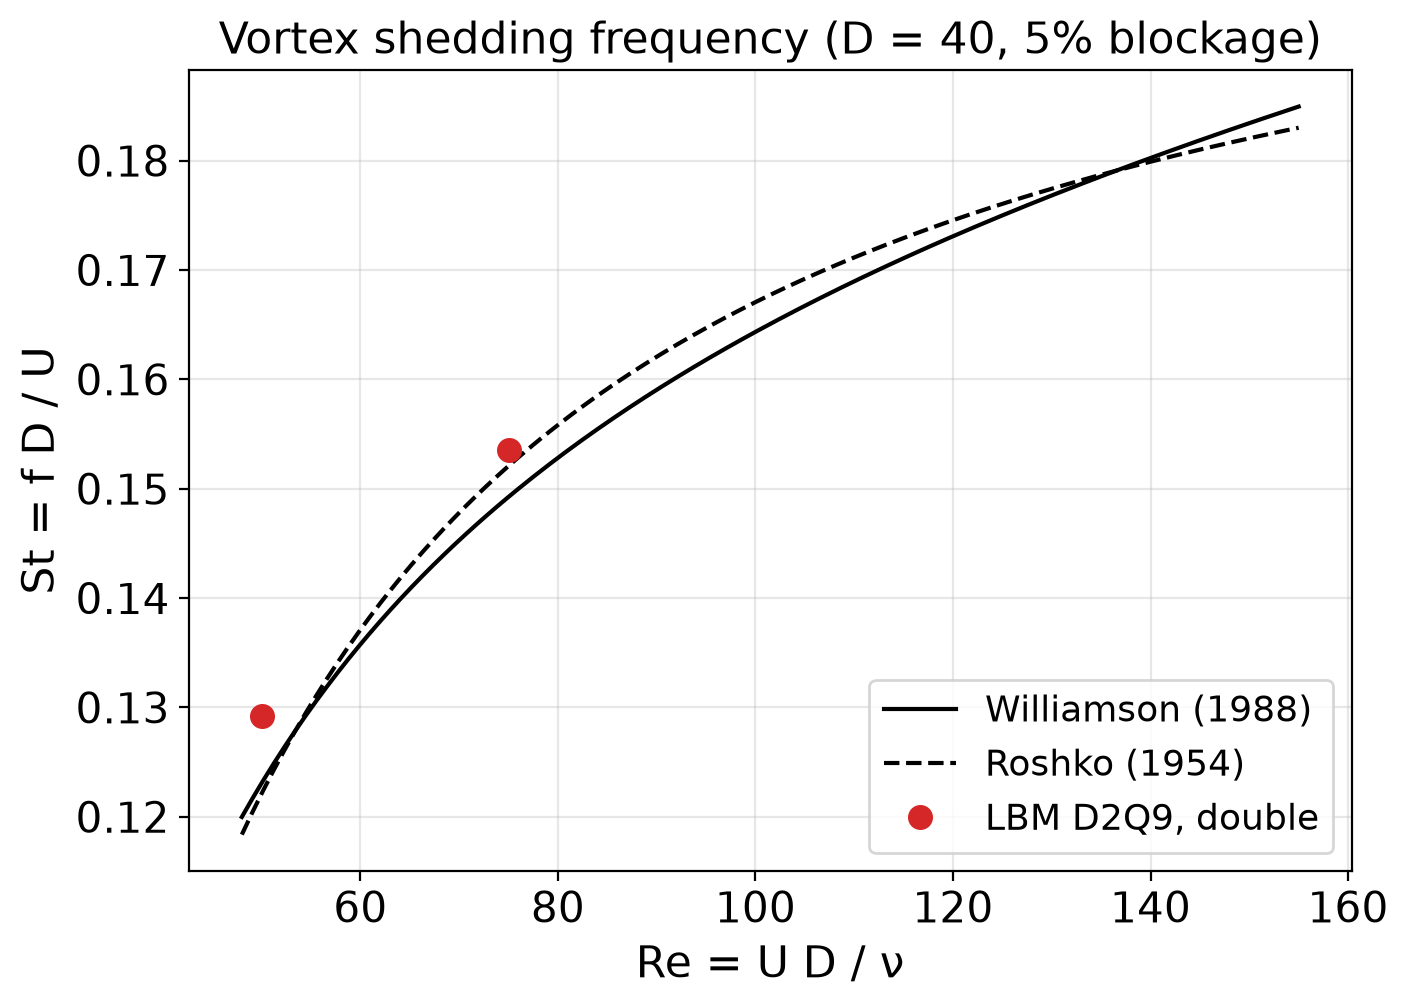
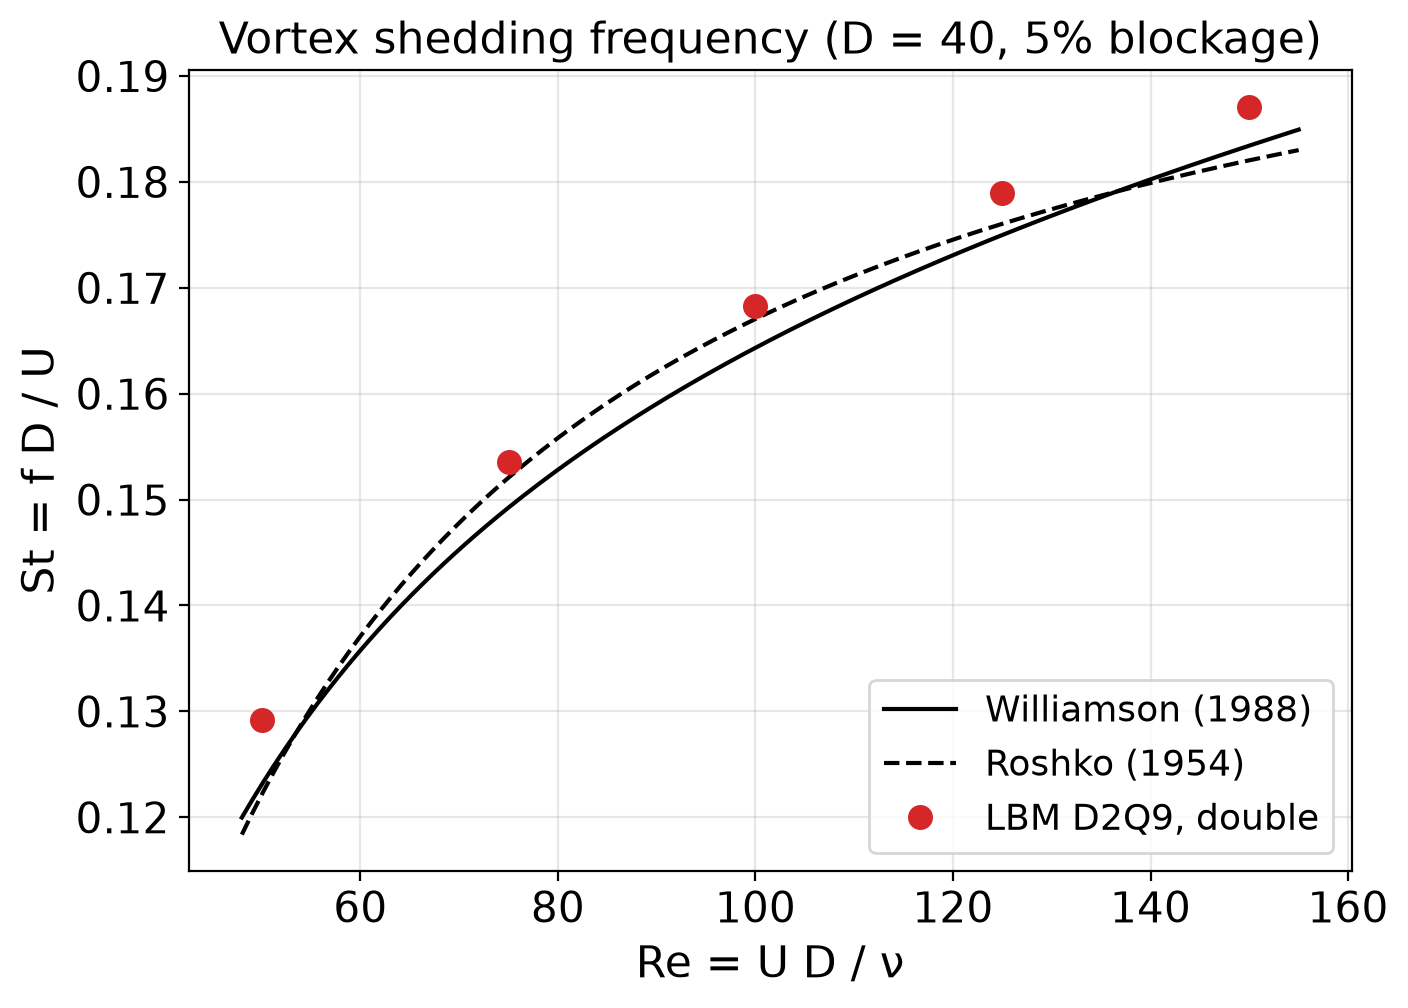
Updated documentation

diff --git a/README.md b/README.md
@@ -60,8 +60,10 @@ D = 40 cells in a 1600 × 800 domain (5% blockage), U = 0.1. St comes from the l
 | 50 | 0.1292 | 0.1231 | +5.0% |
 | 75 | 0.1535 | 0.1492 | +2.9% |
 | 100 | 0.1683 | 0.1643 | +2.4% |
-| 125 | *pending* | 0.1750 | |
-| 150 | *pending* | 0.1838 | |
+| 125 | 0.1790 | 0.1750 | +2.3% |
+| 150 | 0.1871 | 0.1834 | +2.0% |
+
+Every point is a few percent high, by a similar amount. That fits the remaining 5% blockage and Ma = 0.17, both of which push St up.
 
 My earlier 400 × 100 domain (22% blockage) gave St = 0.20 at Re = 100, 23% high. Confinement matters.
 
@@ -73,11 +75,17 @@ C_D is the mean over 3 sub-cell positions of the cylinder centre. The reference 
 | 10 | 6.459 ± 0.068 | +15.8% |
 | 20 | 5.836 ± 0.036 | +4.6% |
 | 40 | 5.655 ± 0.009 | +1.35% |
-| 80 | *pending* | |
+| 80 | 5.612 ± 0.003 | +0.59% |
 
-- The observed order is ≈ 1.8, between the first order of a staircase and the scheme's second order.
+- The observed order is ≈ 1.8 from N = 10 to 40, better than the first order expected for a staircase. From 40 to 80 it
+  flattens to ≈ 1.2.
+- Richardson extrapolation of the last three N gives order ≈ 2.1 and C_D → 5.599, which is still 0.36% above the reference.
+  So a small error remains that grid refinement does not remove. The inlet/outlet treatment or the finite domain are the
+  first suspects (not yet tested).
+- For 1% drag accuracy with staircase bounce-back, you need ~50 cells per diameter.
 - The tiny lift is dominated by the staircase: shifting the centre by 0.2 cells makes the rasterised cylinder
-  lopsided and changes C_L by up to ~20×, while C_D moves only 1–2%.
+  lopsided and changes C_L by up to ~20× at N = 10, while C_D moves only 1–2%. By N = 80 every placement gives
+  1.0–1.8× the reference lift.
 
 ![C_D convergence](figures/fig6_schafer_turek_convergence.png)
 
@@ -127,7 +135,7 @@ The same command pattern builds `check_cylinder` and `check_schafer_turek`.
 ```
 .\sweep_poiseuille_tau.exe            # ~25 s
 .\run_schafer_turek.exe 10 20 40      # ~6 min
-.\run_schafer_turek.exe 80            # ~70 min (3 centre offsets)
+.\run_schafer_turek.exe 80            # 0.93 M steps per offset: ~15 min each at full speed, much longer if the laptop throttles
 .\run_strouhal.exe                    # ~30 min, double, Re 50-150
 python scripts/make_figures.py        # needs numpy + matplotlib
 ```

diff --git a/figures/tables.md b/figures/tables.md
@@ -20,6 +20,9 @@
 |---|---|---|---|---|---|---|
 | 50 | double | 0.1292 | 0.1292 | 0.1231 | +5.0% | 1.521 |
 | 75 | double | 0.1535 | 0.1535 | 0.1492 | +2.9% | 1.441 |
+| 100 | double | 0.1683 | 0.1683 | 0.1643 | +2.4% | 1.408 |
+| 125 | double | 0.1790 | 0.1790 | 0.1750 | +2.3% | 1.397 |
+| 150 | double | 0.1871 | 0.1871 | 0.1834 | +2.0% | 1.395 |
 
 ## Schäfer–Turek 2D-1 (Re = 20), τ = 0.65
 
@@ -30,6 +33,7 @@ Reference: C_D = 5.57954, C_L = 0.01062
 | 10 | 3 | 6.4590 ± 0.0677 | +15.76% | 0.01495 | +40.8% |  |
 | 20 | 3 | 5.8364 ± 0.0360 | +4.60% | 0.01123 | +5.8% | 1.78 |
 | 40 | 3 | 5.6547 ± 0.0086 | +1.35% | 0.01060 | -0.1% | 1.77 |
+| 80 | 3 | 5.6123 ± 0.0027 | +0.59% | 0.01094 | +3.0% | 1.20 |
 
 Per offset (ox, oy in cells): C_L reacts to the staircase's top/bottom asymmetry far more than C_D
 
@@ -44,8 +48,11 @@ Per offset (ox, oy in cells): C_L reacts to the staircase's top/bottom asymmetry
 | 40 | (0.00, +0.00) | 5.6621 | +1.48% | +0.01060 | +1.0 |
 | 40 | (0.30, +0.20) | 5.6568 | +1.38% | +0.00278 | +0.3 |
 | 40 | (0.60, -0.20) | 5.6453 | +1.18% | -0.03819 | -3.6 |
+| 80 | (0.00, +0.00) | 5.6146 | +0.63% | +0.01094 | +1.0 |
+| 80 | (0.30, +0.20) | 5.6131 | +0.60% | +0.01151 | +1.1 |
+| 80 | (0.60, -0.20) | 5.6093 | +0.53% | +0.01872 | +1.8 |
 
-Richardson (last three N): observed order p = 1.78, extrapolated C_D = 5.5799 (+0.01% vs reference)
+Richardson (last three N): observed order p = 2.10, extrapolated C_D = 5.5994 (+0.36% vs reference)
 
 ## Performance (empty periodic box)
 
